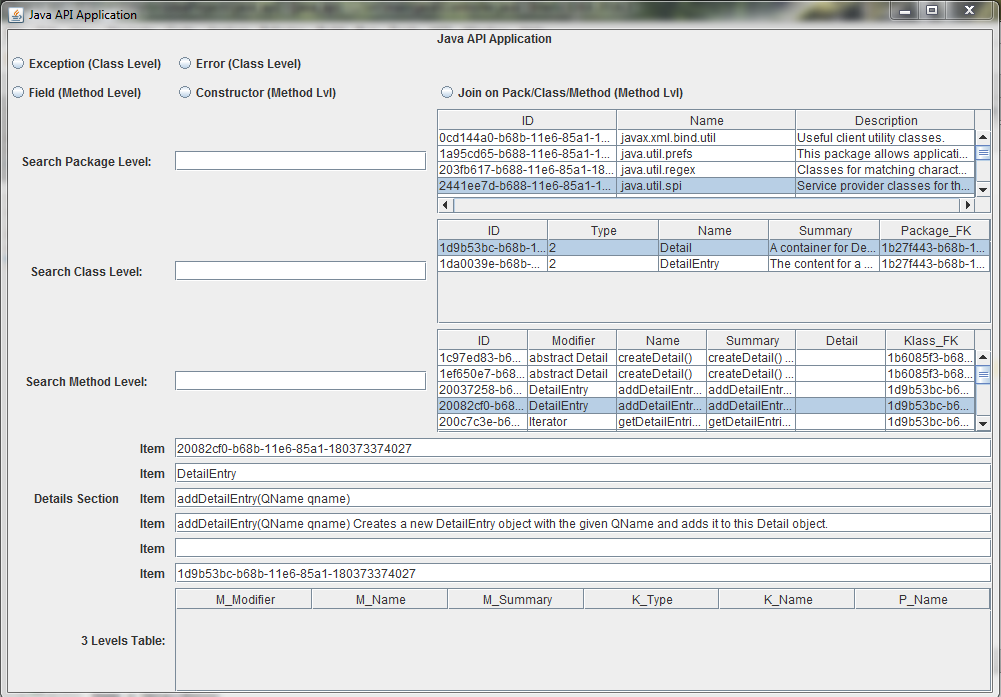
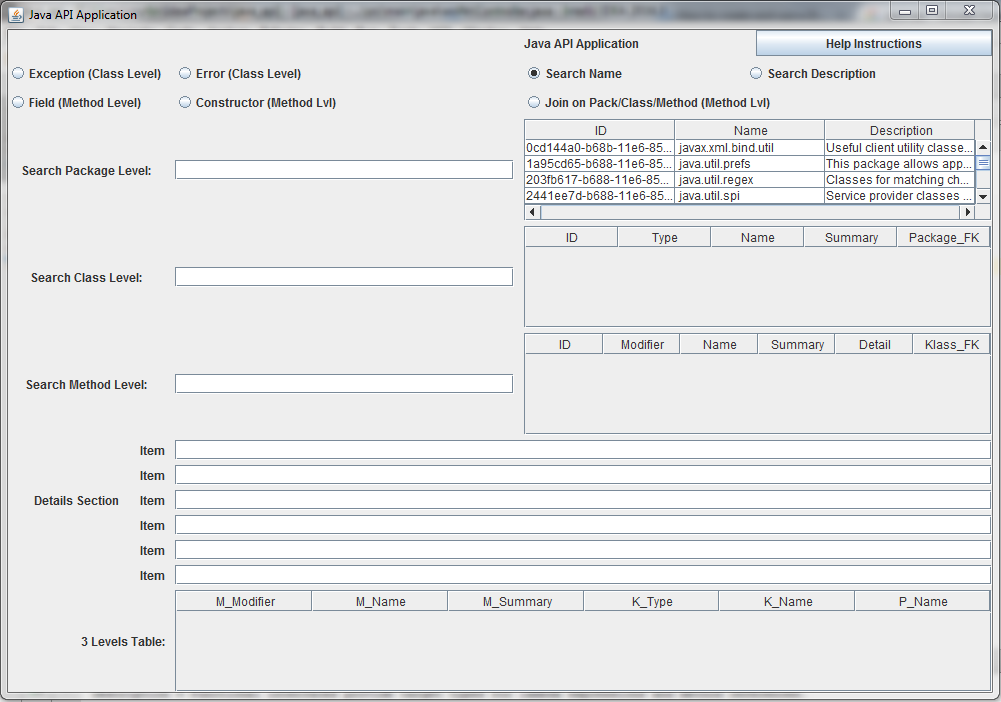
Walkthrough Version

diff --git a/src/main/java/wolfe/API_GUI.java b/src/main/java/wolfe/API_GUI.java
@@ -30,6 +30,7 @@ public class API_GUI extends JFrame {
     private JTable ComboTable;
     private JRadioButton searchNameRadioButton;
     private JRadioButton searchDescriptionRadioButton;
+    private JButton helpButton;
 
 
     Vector<Level1> level1Vector = new Vector<>(100);
@@ -47,13 +48,9 @@ public class API_GUI extends JFrame {
     // Boolean used to indicate column to search on
     boolean useName = true;
 
-    public API_GUI(Vector<Level1> inData) {
+    public API_GUI() {
 
         super("Java API Application");
-
-        for (Level1 item : inData) {
-            level1Vector.add(item);
-        }
 
         setContentPane(rootPanel);
         setPreferredSize(new Dimension(1000, 700));   //Set preferred size before call to pack()
@@ -401,6 +398,64 @@ public class API_GUI extends JFrame {
                 System.out.println("Description button = " + useName);
             }
         });
+        helpButton.addActionListener(new ActionListener() {
+            @Override
+            public void actionPerformed(ActionEvent e) {
+
+
+                // http://alvinalexander.com/blog/post/jfc-swing/java-swing-create-jscrollpane-example-editor
+                SwingUtilities.invokeLater(new Runnable()
+                {
+                    public void run()
+                    {
+                        // create a jtextarea
+                        JTextArea textArea = new JTextArea();
+
+                        // add text to it; we want to make it scroll
+                        textArea.setText("Welcome to the Java API GUI Help Instructions. This application is a database of information\n" +
+                                "extracted from the Oracle Web Site for Java SE version 8. Currently, seven tables are utilized. They are:\n\n" +
+                                "Package - Package level name and description\n" +
+                                "Class - Class level type (1 = class, 2 = interface), name, and summary\n" +
+                                "Exception - Exceptions a particular package can throw\n" +
+                                "Errors - Errors a particular packaage can throw\n" +
+                                "Method - Methods of a Class, modifier, name, and summary\n" +
+                                "Field - Fields of a Class, modifier, name, and summary\n" +
+                                "Constructor - Constructors of a Class, modifier, name, and summary\n\n" +
+                                " ---  Enter a word in one of the three text entry boxes: Search Package Level, " +
+                                "Search Class Level, or Search Method Level, followd by the enter key.\n\n" +
+                                "  ---  Four Radio Buttons at the top left: represents four other tables that can be searched by entering" +
+                                " data in their respective text box\n (Class Level or Method Level).\n\n" +
+                                "  ---  Radio Button \"Join on Pack/Class/Method\": enter data in the Method Level text box and click the\n" +
+                                " Radio Button. Data will be shown in the bottom table.\n\n" +
+                                "  ---  Top right buttons: Search Name and Search Description are mutually exclusive and determine which\n" +
+                                " field in the table to search on. Applies to all tables and buttons except the Join button.\n\n" +
+                                "  ---  Clicking on a table row will select that row and copy the columns to individual text fields in the\n" +
+                                " Details Section.\n\n");
+
+                        // create a scrollpane, givin it the textarea as a constructor argument
+                        JScrollPane scrollPane = new JScrollPane(textArea);
+
+                        // now add the scrollpane to the jframe's content pane, specifically
+                        // placing it in the center of the jframe's borderlayout
+                        JFrame frame = new JFrame("Java API GUI Instructions for Usage");
+                        frame.getContentPane().add(scrollPane, BorderLayout.CENTER);
+
+                        // make it easy to close the application
+                        frame.setDefaultCloseOperation(JFrame.HIDE_ON_CLOSE);
+
+                        // set the frame size (you'll usually want to call frame.pack())
+                        frame.setSize(new Dimension(840, 480));
+
+                        // center the frame
+                        frame.setLocationRelativeTo(null);
+
+                        // make it visible to the user
+                        frame.setVisible(true);
+                    }
+                });
+
+            }
+        });
     }
 
     void clearTextFields() {
@@ -413,8 +468,16 @@ public class API_GUI extends JFrame {
 
     }
 
-    public boolean searchColumn() {
+    public boolean searchName() {
         return useName;
     }
 
+    public void initializeTable(Vector<Level1> inData) {
+
+        for (Level1 item : inData) {
+            level1Vector.add(item);
+        }
+        level1TableModel.fireTableDataChanged();
+
+    }
 }

diff --git a/src/main/java/wolfe/DB.java b/src/main/java/wolfe/DB.java
@@ -36,7 +36,14 @@ public class DB {
         try (Connection conn = DriverManager.getConnection(DB_CONNECTION_URL, USER, PASSWORD);
              Statement statement = conn.createStatement()) {
 
-            java.sql.PreparedStatement sstmt = conn.prepareStatement("SELECT * FROM package WHERE name LIKE ?");
+            java.sql.PreparedStatement sstmt;
+
+            if (Controller.gui.searchName()) {
+                sstmt = conn.prepareStatement("SELECT * FROM package WHERE name LIKE ?");
+            } else {
+                sstmt = conn.prepareStatement("SELECT * FROM package WHERE description LIKE ?");
+            }
+
 
             searchName = "%" + searchName + "%";
 
@@ -82,14 +89,12 @@ public class DB {
 
             java.sql.PreparedStatement sstmt;
 
-            if (Controller.gui.useName) {
+            if (Controller.gui.searchName()) {
                 sstmt = conn.prepareStatement("SELECT * FROM klass WHERE name LIKE ?");
             } else {
                 sstmt = conn.prepareStatement("SELECT * FROM klass WHERE summary LIKE ?");
             }
 
-
-            //java.sql.PreparedStatement sstmt = conn.prepareStatement("SELECT * FROM klass WHERE name LIKE ?");
 
             searchName = "%" + searchName + "%";
 
@@ -139,7 +144,13 @@ public class DB {
         try (Connection conn = DriverManager.getConnection(DB_CONNECTION_URL, USER, PASSWORD);
              Statement statement = conn.createStatement()) {
 
-            java.sql.PreparedStatement sstmt = conn.prepareStatement("SELECT * FROM method WHERE name LIKE ?");
+            java.sql.PreparedStatement sstmt;
+
+            if (Controller.gui.searchName()) {
+                sstmt = conn.prepareStatement("SELECT * FROM method WHERE name LIKE ?");
+            } else {
+                sstmt = conn.prepareStatement("SELECT * FROM method WHERE summary LIKE ?");
+            }
 
             searchName = "%" + searchName + "%";
 
@@ -244,7 +255,13 @@ public class DB {
         try (Connection conn = DriverManager.getConnection(DB_CONNECTION_URL, USER, PASSWORD);
              Statement statement = conn.createStatement()) {
 
-            java.sql.PreparedStatement sstmt = conn.prepareStatement("SELECT * FROM exception WHERE name LIKE ?");
+            java.sql.PreparedStatement sstmt;
+
+            if (Controller.gui.searchName()) {
+                sstmt = conn.prepareStatement("SELECT * FROM exception WHERE name LIKE ?");
+            } else {
+                sstmt = conn.prepareStatement("SELECT * FROM exception WHERE summary LIKE ?");
+            }
 
             searchName = "%" + searchName + "%";
 
@@ -295,7 +312,13 @@ public class DB {
         try (Connection conn = DriverManager.getConnection(DB_CONNECTION_URL, USER, PASSWORD);
              Statement statement = conn.createStatement()) {
 
-            java.sql.PreparedStatement sstmt = conn.prepareStatement("SELECT * FROM errors WHERE name LIKE ?");
+            java.sql.PreparedStatement sstmt;
+
+            if (Controller.gui.searchName()) {
+                sstmt = conn.prepareStatement("SELECT * FROM errors WHERE name LIKE ?");
+            } else {
+                sstmt = conn.prepareStatement("SELECT * FROM errors WHERE summary LIKE ?");
+            }
 
             searchName = "%" + searchName + "%";
 
@@ -346,7 +369,14 @@ public class DB {
         try (Connection conn = DriverManager.getConnection(DB_CONNECTION_URL, USER, PASSWORD);
              Statement statement = conn.createStatement()) {
 
-            java.sql.PreparedStatement sstmt = conn.prepareStatement("SELECT * FROM field WHERE name LIKE ?");
+            java.sql.PreparedStatement sstmt;
+
+            if (Controller.gui.searchName()) {
+                sstmt = conn.prepareStatement("SELECT * FROM field WHERE name LIKE ?");
+            } else {
+                sstmt = conn.prepareStatement("SELECT * FROM field WHERE summary LIKE ?");
+            }
+
 
             searchName = "%" + searchName + "%";
 
@@ -398,7 +428,13 @@ public class DB {
         try (Connection conn = DriverManager.getConnection(DB_CONNECTION_URL, USER, PASSWORD);
              Statement statement = conn.createStatement()) {
 
-            java.sql.PreparedStatement sstmt = conn.prepareStatement("SELECT * FROM constructor WHERE name LIKE ?");
+            java.sql.PreparedStatement sstmt;
+
+            if (Controller.gui.searchName()) {
+                sstmt = conn.prepareStatement("SELECT * FROM constructor WHERE name LIKE ?");
+            } else {
+                sstmt = conn.prepareStatement("SELECT * FROM constructor WHERE summary LIKE ?");
+            }
 
             searchName = "%" + searchName + "%";
 

diff --git a/src/main/java/wolfe/Controller.java b/src/main/java/wolfe/Controller.java
@@ -31,9 +31,11 @@ public class Controller {
         String testTemp = "%util%";
 
         db = new DB();
-        Vector<Level1> allData = db.fetchLevel1Records(testTemp);
 
-        gui = new API_GUI(allData);
+        gui = new API_GUI();
+
+        Vector<Level1> allData = db.fetchLevel1Records(testTemp);
+        gui.initializeTable(allData);
 
         System.out.println("finally at the end");
     }
